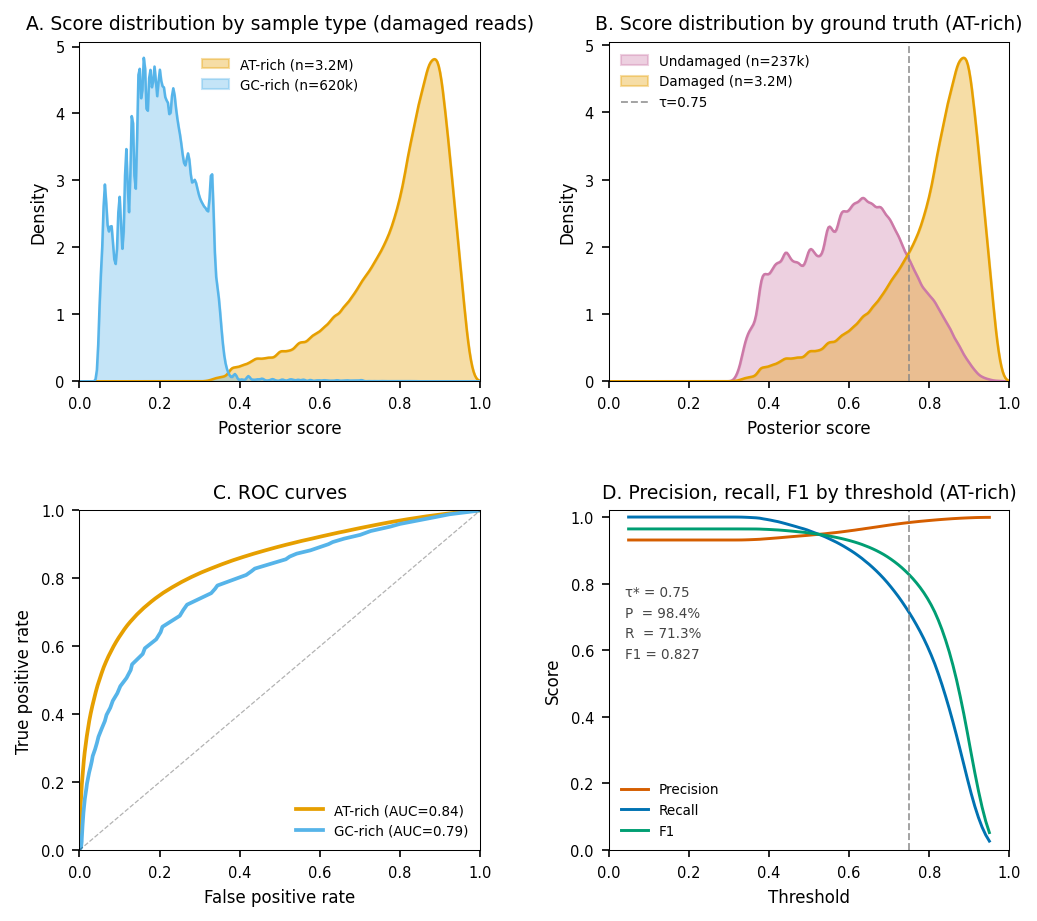
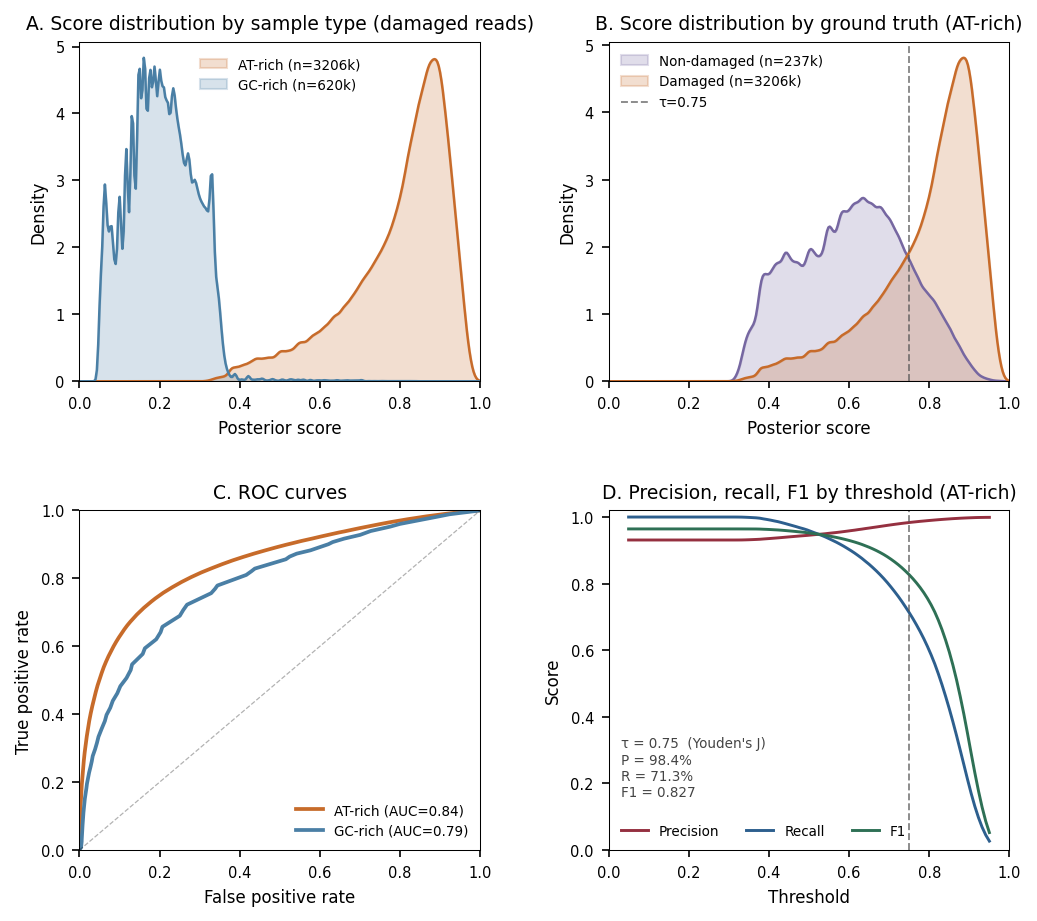
Update protein benchmark figures and tables (AUC 0.875→0.881)

diff --git a/README.md b/README.md
@@ -297,11 +297,11 @@ Protein-level damage classification benchmarked on the same 10 KapK synthetic sa
 
 | Group | AUC-ROC |
 |-------|---------|
-| Overall | **0.873** |
-| AT-rich samples | **0.945** |
-| GC-rich samples | **0.934** |
+| Overall | **0.881** |
+| AT-rich samples | **0.957** |
+| GC-rich samples | **0.943** |
 
-At the Youden-optimal threshold τ = 0.70: **Precision 99.2%, Recall 86.2%, F1 = 0.923**.
+At the Youden-optimal threshold τ = 0.70: **Precision 99.7%, Recall 89.5%, F1 = 0.943**.
 
 <p align="center">
 <img src="docs/protein_benchmark.png" width="700" alt="Protein-level damage classification: ROC curves and precision/recall">
